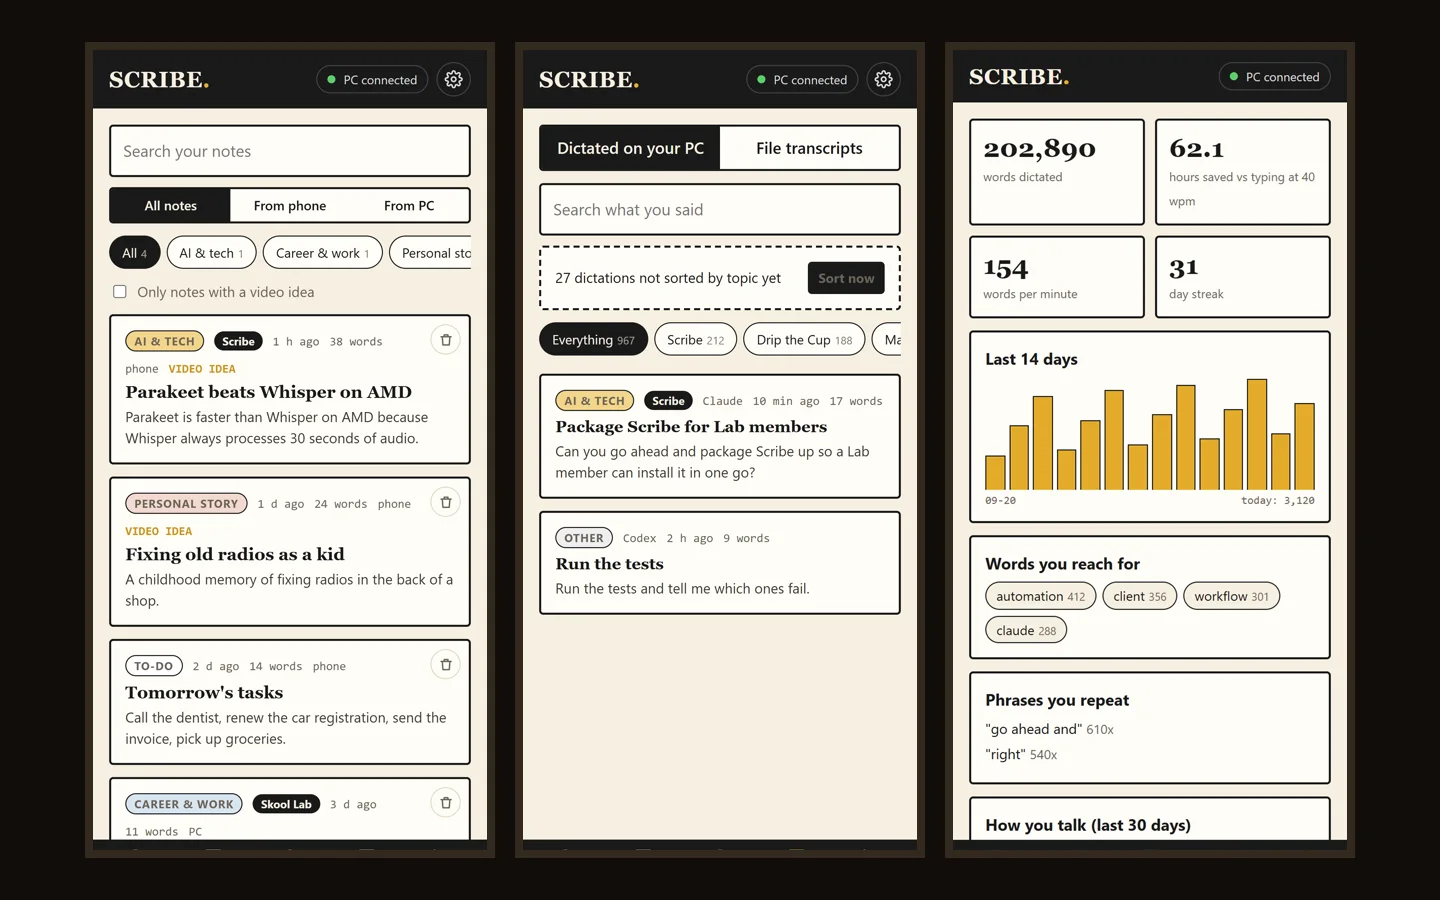
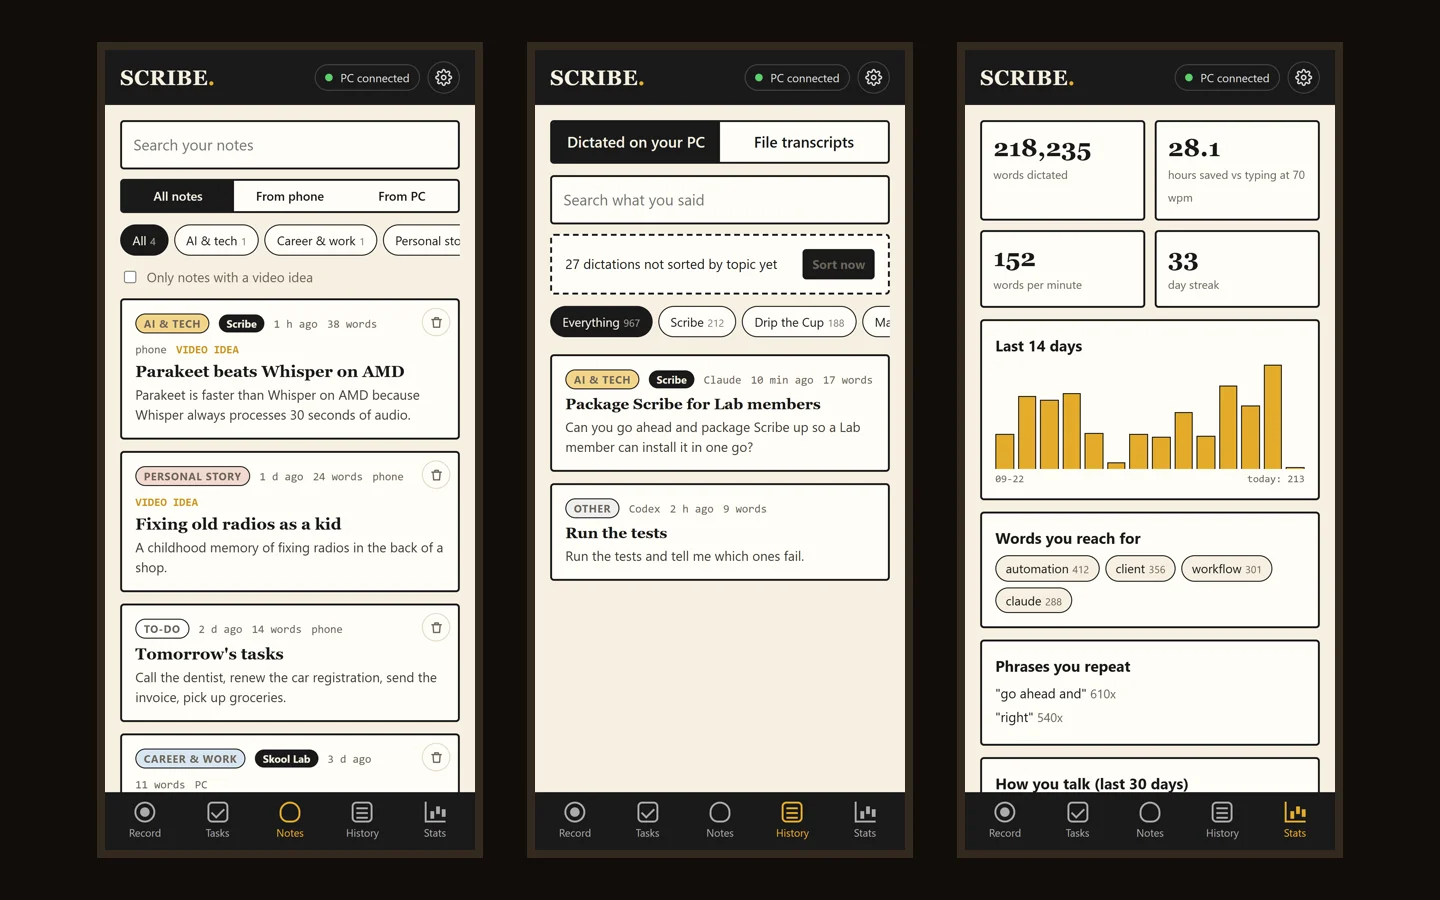
Learn: Scribe's new look on desktop and phone, nine screens, both apps yours to keep in the Lab

Changed region(s): [[0.0312, 0.0311, 0.9688, 0.9644]]

diff --git a/learn/index.html b/learn/index.html
@@ -658,13 +658,14 @@
         </article>
       <article class="bcard locked clear">
           <div class="shot gal" data-gal="scribe">
-            <img src="art/builds/scribe-phone-1.webp" width="1440" height="900" loading="lazy" alt="Scribe on the phone: recording, a finished note with its to-dos, and the to-do list. Sample data.">
+            <img src="art/builds/scribe-phone-1.webp" width="1440" height="900" loading="lazy" alt="Scribe on the phone: recording, a finished note with its to-dos, and the to-do list. Sample notes.">
             <a class="lock-pill unlock-link" href="#seat"><span class="ic-lock"></span>Unlock in the Lab</a>
           </div>
           <div class="info">
             <span class="badge">Working</span>
             <h3>Scribe</h3>
             <p class="one">My own private dictation app, on my computer and my phone. Talk, and clean text lands wherever your cursor is, or comes back as a clean note with your to-dos. It also measures how you speak, from pace to how casual you sound, and coaches you on it.</p>
+            <p class="inside">In the Lab: the desktop app and the phone app, yours to keep.</p>
             <div class="act"><a class="btn btn-mustard unlock-link" href="#seat"><span class="ic-lock"></span>Unlock</a></div>
           </div>
         </article>
@@ -955,7 +956,7 @@
 // thumbnails and, for the car and health screens, a numbered tour over the clip.
 (function(){
   var B = 'art/builds/';
-  var GAL = {"mb": {"title": "Mission Briefing", "items": [{"label": "Home", "src": "mb-home.webp", "w": 1600, "h": 1000, "alt": "Mission Briefing's home screen: a body scan with heart rate, steps and sleep, a holographic Tesla with battery and range, the morning briefing and an alerts feed. Demo data.", "cap": "Home. My health, my Tesla, the morning briefing and today's missions on one screen, with alerts and messages running down the right. Demo data, like every screen here."}, {"label": "Tesla", "src": "mb-car-poster.webp", "video": "mb-car.mp4", "w": 1544, "h": 1100, "alt": "The vehicle screen: the Tesla as a slowly turning 3D hologram, ten remote commands, the status board and four car routines.", "cap": "Tap the car on the home screen and this opens. Here is what each part does.", "tour": [{"x": 0.25, "y": 0.22, "t": "A 3D hologram of the car, turning slowly. One tap on MAP shows where it is parked."}, {"x": 0.175, "y": 0.497, "t": "Ten remote commands: climate, charging, the charge port, flash, honk, frunk, lock and unlock."}, {"x": 0.825, "y": 0.071, "t": "The status board: battery, range, charging, cabin temperature and the locks, synced from the car."}, {"x": 0.15, "y": 0.708, "t": "Four routines that run on their own: lock it, guard it overnight, charge up before a road trip on my calendar, warm it before I leave."}, {"x": 0.31, "y": 0.925, "t": "Everything the routines did, logged in plain words."}]}, {"label": "Health", "src": "mb-person-poster.webp", "video": "mb-person.mp4", "w": 1576, "h": 1704, "alt": "The vitals screen: a body scan, last night's sleep, today's vitals, two weeks of trends, recent workouts and Cipher's read.", "cap": "Tap the body scan and this opens. Here is what each part does.", "tour": [{"x": 0.06, "y": 0.14, "t": "A body scan with a live heart-rate marker."}, {"x": 0.274, "y": 0.343, "t": "Last night's sleep, split into deep, light and REM."}, {"x": 0.477, "y": 0.045, "t": "Today's vitals: resting heart rate, steps, sleep, active minutes and water."}, {"x": 0.584, "y": 0.162, "t": "Two weeks of trends for steps, sleep, activity and heart rate."}, {"x": 0.497, "y": 0.44, "t": "Recent workouts with time, calories and effort."}, {"x": 0.482, "y": 0.627, "t": "Cipher's read: what is going well, what to watch, and what to do next today."}, {"x": 0.843, "y": 0.93, "t": "It syncs from Google Health on my phone."}]}, {"label": "HQ", "src": "mb-hq.webp", "w": 1600, "h": 1000, "alt": "HQ: this week's intel, what to shoot next, what's waiting on me, each channel's week and when each tool last checked in. Demo data.", "cap": "HQ, for everything I'm building: each channel's week, what to shoot next, what's waiting on me, and when each tool last checked in."}, {"label": "Money", "src": "mb-finance.webp", "w": 1600, "h": 1000, "alt": "Finance: a month of spending by category against budgets. Demo data.", "cap": "Money. Every bank, card and loan syncs in through Plaid and SimpleFIN, and the data stays on my computer. Where it went this month, against the budget I set."}, {"label": "Money", "src": "mb-finance-2.webp", "w": 1600, "h": 1000, "alt": "Finance: debts with rates and minimums, an advisor with a debt-free date, and net worth. Demo data.", "cap": "It reads the rate on every debt and says what to do with spare cash, when you would be debt free, and what you are worth today."}]}, "scribe": {"title": "Scribe", "items": [{"label": "Phone", "src": "scribe-phone-1.webp", "w": 1440, "h": 900, "alt": "Scribe on the phone: recording, a finished note with its to-dos, and the to-do list. Sample data.", "cap": "On the phone it is a voice recorder. Talk as long as you like and it comes back as a clean note; say \"I need to\" and it lands on the to-do list. Sample data."}, {"label": "Your voice", "src": "scribe-phone-voice.webp", "w": 1440, "h": 900, "alt": "Scribe on the phone, Stats tab: register from casual to formal with the casual words used most, delivery with pace and session length, raw speech against what was pasted, and a speaking coach.", "cap": "It measures how you actually talk: casual or formal, the casual words you lean on, your pace, how much the cleanup had to fix. Then it coaches you on what to work on first. These voice numbers are mine."}, {"label": "Phone", "src": "scribe-phone-2.webp", "w": 1440, "h": 900, "alt": "Scribe on the phone: notes sorted by topic, everything dictated on the computer, and stats. Sample data.", "cap": "Every note sorted by topic and searchable, plus everything you dictated on the computer, and your stats. Sample data."}, {"label": "Dictate", "src": "scribe-dictate.webp", "w": 1600, "h": 842, "alt": "Scribe's dictate screen: hold Ctrl and Caps Lock to talk, writing styles, today's words, all-time words and pace. Recent dictations blurred.", "cap": "Hold a key and talk; clean text lands wherever the cursor is. My recent dictations are blurred."}, {"label": "Stats", "src": "scribe-stats.webp", "w": 1600, "h": 842, "alt": "Scribe's stats: 77k words, 160 words a minute, 10.4 hours saved, words per day and which apps the words went to.", "cap": "77k words at 160 words a minute, about ten hours saved, and which apps the words went to."}, {"label": "Voice", "src": "scribe-voice.webp", "w": 1600, "h": 842, "alt": "Scribe's voice page: filler rate, vocabulary range, grade level, sentence length, the words I reach for and phrases I repeat.", "cap": "How I actually talk, measured from the raw transcript: filler rate, the words I lean on, the phrases I repeat."}, {"label": "Commands", "src": "scribe-commands.webp", "w": 1600, "h": 842, "alt": "Scribe's commands: editing commands, opening things by voice after a wake word, and drafting by voice.", "cap": "Voice commands: say \"computer, open Chrome\" and it opens, or ask it to write an email and a draft appears."}, {"label": "Styles", "src": "scribe-styles.webp", "w": 1600, "h": 842, "alt": "Scribe's writing styles: professional, personal, verbatim and code, with a style per app.", "cap": "A writing style per app: as-said in chat apps, professional in email and LinkedIn, code left intact in editors."}]}, "ci": {"title": "Creator Intel", "items": [{"label": "Board", "src": "ci-board.webp", "w": 1600, "h": 1000, "alt": "Creator Intel's board for Drip the Cup: ideas, writing, making, ready to post and posted.", "cap": "The board: every Drip the Cup piece from idea to posted. A plan written in a chat drops straight onto it."}, {"label": "Audience", "src": "ci-audience.webp", "w": 1600, "h": 840, "alt": "Creator Intel's audience page: 39,079 followers across six accounts, with each account's followers, posts and views.", "cap": "Every account in one place, read every day: followers, views, and what went out from here."}, {"label": "What works", "src": "ci-works.webp", "w": 1400, "h": 653, "alt": "Creator Intel's What works page for Drip the Cup: roundups on YouTube at 1.9x the usual views, carousels on TikTok at 1.4x, tutorials on YouTube at 0.3x.", "cap": "What works: each post against my own usual, by format and platform. Claude reads this before we brainstorm."}]}, "desk": {"title": "The Script Desk", "items": [{"label": "Script", "src": "ci-desk.webp", "w": 1600, "h": 942, "alt": "The Script Desk on the EP01 script: 9:07 estimated runtime, 1,524 spoken words, who speaks how much, and the script line by line with notes.", "cap": "Every script line by line: estimated runtime, who talks how much, revisions side by side and a note on any line."}]}, "take": {"title": "Take", "items": [{"label": "Edit", "src": "take-editor.webp", "w": 1600, "h": 1000, "alt": "Take's editor: a recording of the Mission Briefing demo with Drip as the face cam, the timeline with screen, face cam and audio tracks, and export to DaVinci Resolve.", "cap": "The editor: screen, face cam and audio on their own tracks. Split, trim, mark moments, then send it to DaVinci Resolve. Test recording."}, {"label": "Record", "src": "take-record.webp", "w": 1600, "h": 1000, "alt": "Take's record screen: choose a screen, window or tab, optional camera and microphone, camera backgrounds, and privacy covers.", "cap": "Pick a screen, window or tab. Camera and mic are optional, the camera gets a background, and anything private gets covered or blurred in the export."}, {"label": "Finish", "src": "take-connections.webp", "w": 1600, "h": 680, "alt": "Take's connections: DaVinci Resolve, CapCut, Adobe Premiere Pro and plain MP4 files.", "cap": "Finish in whichever editor you use: DaVinci Resolve gets every layer on its own track; CapCut and Premiere get an edit folder; or just MP4s."}]}, "studio": {"title": "The Drip & Capp studio", "items": [{"label": "Storyboard", "src": "studio.webp", "w": 629, "h": 393, "alt": "A storyboard frame: Drip at a desk with a laptop while Capp stands beside him with a clipboard.", "cap": "Every Drip episode, short and carousel is rendered from code: AI voices and animation timed to every word."}]}};
+  var GAL = {"mb": {"title": "Mission Briefing", "items": [{"label": "Home", "src": "mb-home.webp", "w": 1600, "h": 1000, "alt": "Mission Briefing's home screen: a body scan with heart rate, steps and sleep, a holographic Tesla with battery and range, the morning briefing and an alerts feed. Demo data.", "cap": "Home. My health, my Tesla, the morning briefing and today's missions on one screen, with alerts and messages running down the right. Demo data, like every screen here."}, {"label": "Tesla", "src": "mb-car-poster.webp", "video": "mb-car.mp4", "w": 1544, "h": 1100, "alt": "The vehicle screen: the Tesla as a slowly turning 3D hologram, ten remote commands, the status board and four car routines.", "cap": "Tap the car on the home screen and this opens. Here is what each part does.", "tour": [{"x": 0.25, "y": 0.22, "t": "A 3D hologram of the car, turning slowly. One tap on MAP shows where it is parked."}, {"x": 0.175, "y": 0.497, "t": "Ten remote commands: climate, charging, the charge port, flash, honk, frunk, lock and unlock."}, {"x": 0.825, "y": 0.071, "t": "The status board: battery, range, charging, cabin temperature and the locks, synced from the car."}, {"x": 0.15, "y": 0.708, "t": "Four routines that run on their own: lock it, guard it overnight, charge up before a road trip on my calendar, warm it before I leave."}, {"x": 0.31, "y": 0.925, "t": "Everything the routines did, logged in plain words."}]}, {"label": "Health", "src": "mb-person-poster.webp", "video": "mb-person.mp4", "w": 1576, "h": 1704, "alt": "The vitals screen: a body scan, last night's sleep, today's vitals, two weeks of trends, recent workouts and Cipher's read.", "cap": "Tap the body scan and this opens. Here is what each part does.", "tour": [{"x": 0.06, "y": 0.14, "t": "A body scan with a live heart-rate marker."}, {"x": 0.274, "y": 0.343, "t": "Last night's sleep, split into deep, light and REM."}, {"x": 0.477, "y": 0.045, "t": "Today's vitals: resting heart rate, steps, sleep, active minutes and water."}, {"x": 0.584, "y": 0.162, "t": "Two weeks of trends for steps, sleep, activity and heart rate."}, {"x": 0.497, "y": 0.44, "t": "Recent workouts with time, calories and effort."}, {"x": 0.482, "y": 0.627, "t": "Cipher's read: what is going well, what to watch, and what to do next today."}, {"x": 0.843, "y": 0.93, "t": "It syncs from Google Health on my phone."}]}, {"label": "HQ", "src": "mb-hq.webp", "w": 1600, "h": 1000, "alt": "HQ: this week's intel, what to shoot next, what's waiting on me, each channel's week and when each tool last checked in. Demo data.", "cap": "HQ, for everything I'm building: each channel's week, what to shoot next, what's waiting on me, and when each tool last checked in."}, {"label": "Money", "src": "mb-finance.webp", "w": 1600, "h": 1000, "alt": "Finance: a month of spending by category against budgets. Demo data.", "cap": "Money. Every bank, card and loan syncs in through Plaid and SimpleFIN, and the data stays on my computer. Where it went this month, against the budget I set."}, {"label": "Money", "src": "mb-finance-2.webp", "w": 1600, "h": 1000, "alt": "Finance: debts with rates and minimums, an advisor with a debt-free date, and net worth. Demo data.", "cap": "It reads the rate on every debt and says what to do with spare cash, when you would be debt free, and what you are worth today."}]}, "scribe": {"title": "Scribe", "items": [{"label": "Phone", "src": "scribe-phone-1.webp", "w": 1440, "h": 900, "alt": "Scribe on the phone: recording, a finished note with its to-dos, and the to-do list. Sample notes.", "cap": "On the phone it is a voice recorder. Talk as long as you like and it comes back as a clean note; say \"I need to\" and it lands on your to-do list. Sample notes."}, {"label": "Your voice", "src": "scribe-phone-voice.webp", "w": 1440, "h": 900, "alt": "Scribe on the phone, Stats tab: register from casual to formal with the casual words used most, delivery, raw speech against what was pasted, and a speaking coach.", "cap": "It measures how you actually talk: casual or formal, the casual words you lean on, your pace, how much the cleanup had to fix. Then it coaches you on what to work on first. These voice numbers are mine."}, {"label": "Voice", "src": "scribe-voice-2.webp", "w": 1600, "h": 1000, "alt": "Scribe on the desktop, Voice page: register at 54 of 100 with the casual words used, delivery at 155 words a minute, and 8% of words changed by the cleanup.", "cap": "The same numbers on your computer, in the same look: register, delivery, and how much of what you said needed fixing. My own numbers."}, {"label": "Dictate", "src": "scribe-dictate.webp", "w": 1600, "h": 1000, "alt": "Scribe on the desktop, Dictate page: the mustard record button, writing styles, today's words, all-time words, talking time, pace and streak, and recent dictations.", "cap": "Hold a key and talk; clean text lands wherever your cursor is. Your day, your pace and your streak up top. The recent list here is sample text."}, {"label": "Coach", "src": "scribe-voice.webp", "w": 1600, "h": 1000, "alt": "Scribe on the desktop, Voice page: filler rate, vocabulary range, grade level and sentence length, then what this says and what to do this week.", "cap": "What this says, and what to do: filler rate, vocabulary range, grade level and sentence length against spoken English, and one thing to practice this week. My own numbers."}, {"label": "Stats", "src": "scribe-stats.webp", "w": 1600, "h": 1000, "alt": "Scribe's stats: 218k words, 152 words a minute, 23.9 hours of talking, 1.2 days saved, words per day and which apps the words went to.", "cap": "218k words at 152 words a minute, more than a day saved against typing, and which apps the words went to. My own numbers."}, {"label": "Phone", "src": "scribe-phone-2.webp", "w": 1440, "h": 900, "alt": "Scribe on the phone: notes sorted by topic, everything dictated on the computer, and stats.", "cap": "Every note sorted by topic and searchable, everything you dictated on the computer, and your stats, in your pocket."}, {"label": "Commands", "src": "scribe-commands.webp", "w": 1600, "h": 1000, "alt": "Scribe's commands: editing commands, opening things by voice after a wake word, and drafting by voice.", "cap": "Voice commands: say \"computer, open Chrome\" and it opens, or ask it to write an email and a draft appears."}, {"label": "Styles", "src": "scribe-styles.webp", "w": 1600, "h": 1000, "alt": "Scribe's writing styles: professional, personal, verbatim, clean up, and code and terminal.", "cap": "Writing styles in your own words: professional, personal, as-said, or code left intact. Pick one, or set one per app."}]}, "ci": {"title": "Creator Intel", "items": [{"label": "Board", "src": "ci-board.webp", "w": 1600, "h": 1000, "alt": "Creator Intel's board for Drip the Cup: ideas, writing, making, ready to post and posted.", "cap": "The board: every Drip the Cup piece from idea to posted. A plan written in a chat drops straight onto it."}, {"label": "Audience", "src": "ci-audience.webp", "w": 1600, "h": 840, "alt": "Creator Intel's audience page: 39,079 followers across six accounts, with each account's followers, posts and views.", "cap": "Every account in one place, read every day: followers, views, and what went out from here."}, {"label": "What works", "src": "ci-works.webp", "w": 1400, "h": 653, "alt": "Creator Intel's What works page for Drip the Cup: roundups on YouTube at 1.9x the usual views, carousels on TikTok at 1.4x, tutorials on YouTube at 0.3x.", "cap": "What works: each post against my own usual, by format and platform. Claude reads this before we brainstorm."}]}, "desk": {"title": "The Script Desk", "items": [{"label": "Script", "src": "ci-desk.webp", "w": 1600, "h": 942, "alt": "The Script Desk on the EP01 script: 9:07 estimated runtime, 1,524 spoken words, who speaks how much, and the script line by line with notes.", "cap": "Every script line by line: estimated runtime, who talks how much, revisions side by side and a note on any line."}]}, "take": {"title": "Take", "items": [{"label": "Edit", "src": "take-editor.webp", "w": 1600, "h": 1000, "alt": "Take's editor: a recording of the Mission Briefing demo with Drip as the face cam, the timeline with screen, face cam and audio tracks, and export to DaVinci Resolve.", "cap": "The editor: screen, face cam and audio on their own tracks. Split, trim, mark moments, then send it to DaVinci Resolve. Test recording."}, {"label": "Record", "src": "take-record.webp", "w": 1600, "h": 1000, "alt": "Take's record screen: choose a screen, window or tab, optional camera and microphone, camera backgrounds, and privacy covers.", "cap": "Pick a screen, window or tab. Camera and mic are optional, the camera gets a background, and anything private gets covered or blurred in the export."}, {"label": "Finish", "src": "take-connections.webp", "w": 1600, "h": 680, "alt": "Take's connections: DaVinci Resolve, CapCut, Adobe Premiere Pro and plain MP4 files.", "cap": "Finish in whichever editor you use: DaVinci Resolve gets every layer on its own track; CapCut and Premiere get an edit folder; or just MP4s."}]}, "studio": {"title": "The Drip & Capp studio", "items": [{"label": "Storyboard", "src": "studio.webp", "w": 629, "h": 393, "alt": "A storyboard frame: Drip at a desk with a laptop while Capp stands beside him with a clipboard.", "cap": "Every Drip episode, short and carousel is rendered from code: AI voices and animation timed to every word."}]}};
   var calm = window.matchMedia && window.matchMedia('(prefers-reduced-motion: reduce)').matches;
   var dlg = document.getElementById('zoom');
 
